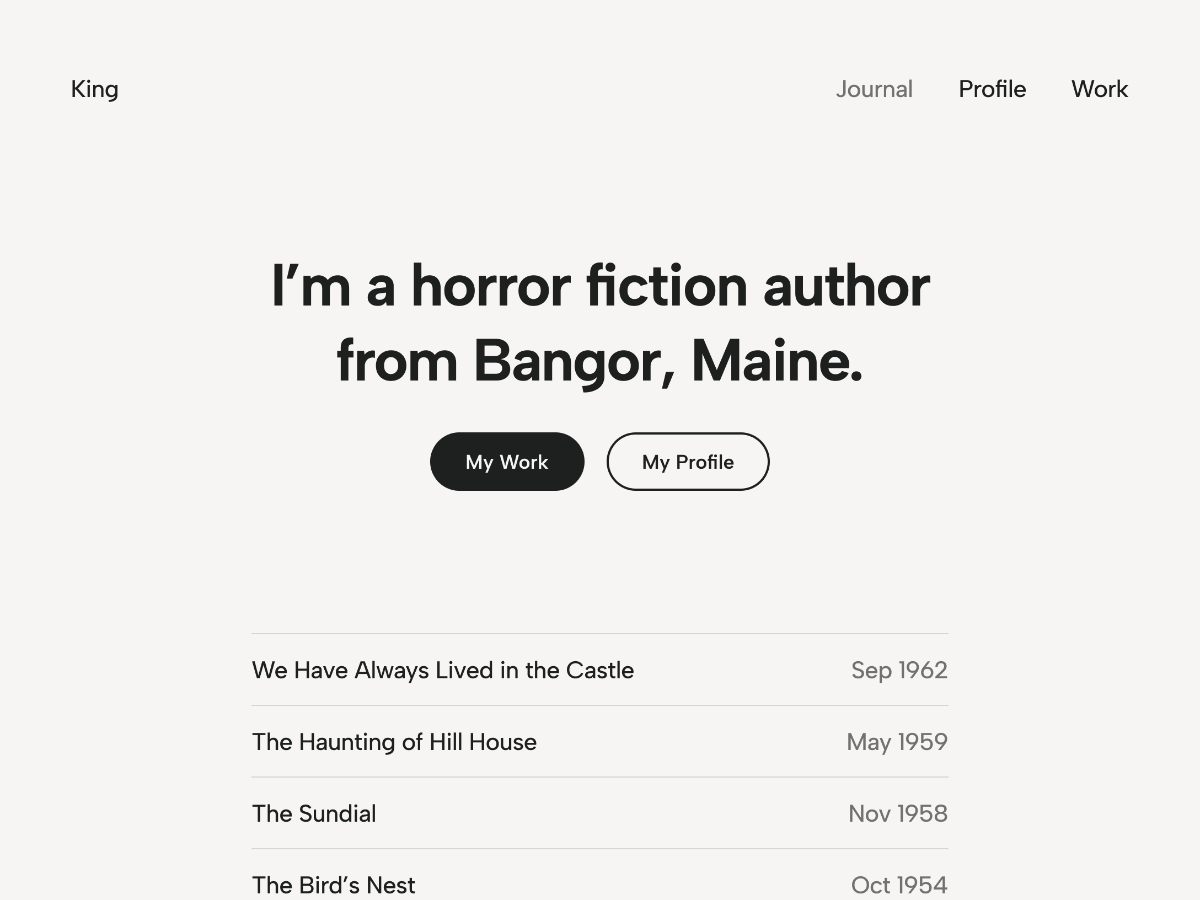
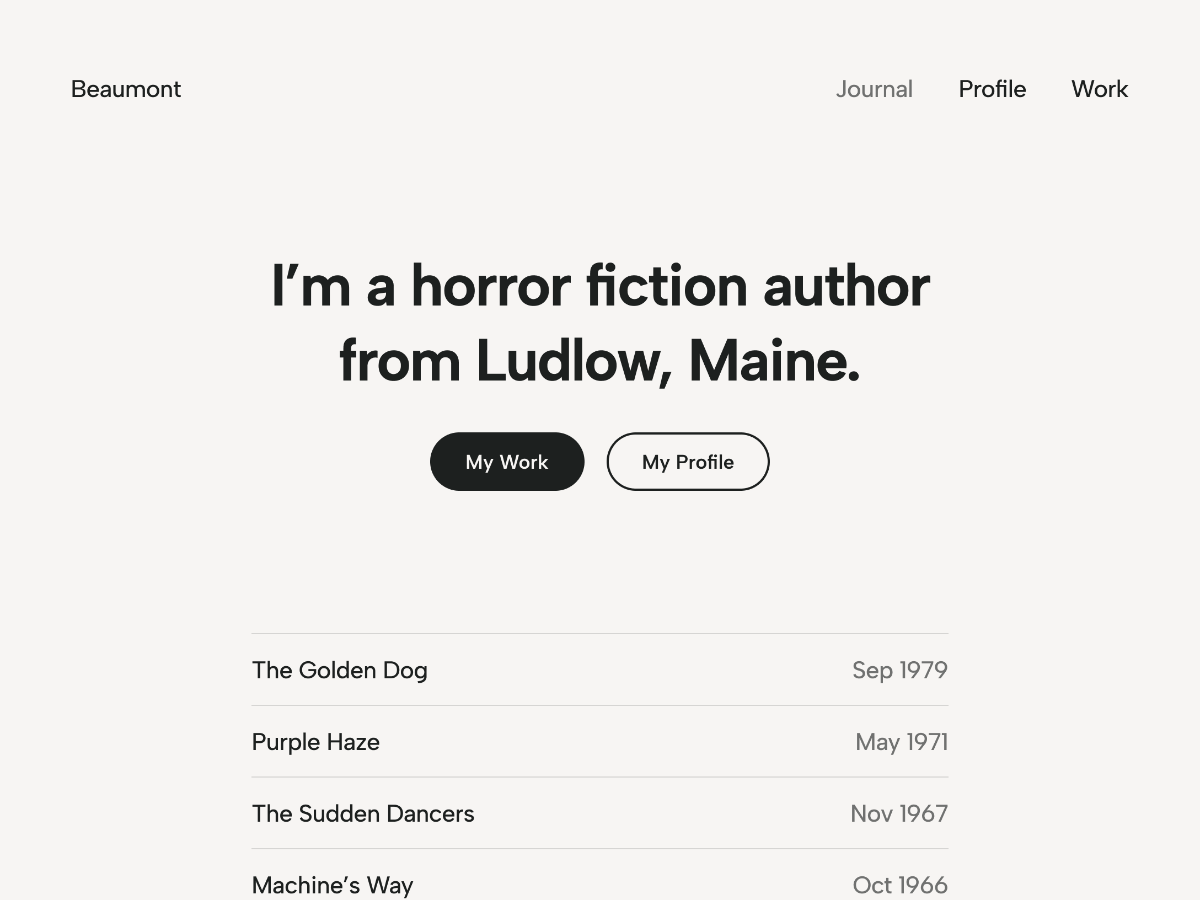
Renamed to Beaumont

diff --git a/style.css b/style.css
@@ -1,9 +1,9 @@
 /* ---------------------------------------------------------------------------------------------
 
-	Theme Name: King
-    Text Domain: king
+	Theme Name: Beaumont
+    Text Domain: beaumont
 	Version: 0.1
-	Description: King is a simple block theme for your words. It includes a handful of block patterns to help you create beautiful layouts, and 10 different theme styles to choose from.
+	Description: Beaumont is a simple block theme for your words. It includes a handful of block patterns to help you create beautiful layouts, and 10 different theme styles to choose from.
 	Tags: blog, one-column, custom-background, custom-colors, custom-logo, custom-menu, editor-style, featured-images, sticky-post, threaded-comments, translation-ready, block-styles, wide-blocks, full-site-editing
 	Author: Anders Norén
 	Author URI: https://andersnoren.se
@@ -445,59 +445,59 @@ ol.wp-block-comment-template {
 
 /* STYLE: VERTICAL SEPARATORS */
 
-.wp-block-query-pagination.is-style-king-vertical-separators {
+.wp-block-query-pagination.is-style-beaumont-vertical-separators {
 	border-bottom: 1px solid var( --wp--preset--color--secondary );
 	border-top: 1px solid var( --wp--preset--color--secondary );
 	gap: 0;
 }
 
-.wp-block-query-pagination.is-style-king-vertical-separators a,
+.wp-block-query-pagination.is-style-beaumont-vertical-separators a,
 .wp-block-query-pagination-numbers {
 	position: relative;
 }
 
-.wp-block-query-pagination.is-style-king-vertical-separators .post-navigation-link-previous a:before,
-.wp-block-query-pagination.is-style-king-vertical-separators .post-navigation-link-next a:before {
+.wp-block-query-pagination.is-style-beaumont-vertical-separators .post-navigation-link-previous a:before,
+.wp-block-query-pagination.is-style-beaumont-vertical-separators .post-navigation-link-next a:before {
 	position: absolute;
 }
 
-.wp-block-query-pagination.is-style-king-vertical-separators .post-navigation-link-previous a:before { content: "←"; }
-.wp-block-query-pagination.is-style-king-vertical-separators .post-navigation-link-next a:before { content: "→"; }
+.wp-block-query-pagination.is-style-beaumont-vertical-separators .post-navigation-link-previous a:before { content: "←"; }
+.wp-block-query-pagination.is-style-beaumont-vertical-separators .post-navigation-link-next a:before { content: "→"; }
 
 /* Horizontal Orientation */
 
-.wp-block-query-pagination.is-style-king-vertical-separators:not(.is-vertical) {
+.wp-block-query-pagination.is-style-beaumont-vertical-separators:not(.is-vertical) {
 	gap: 16px;
 	padding: 16px 0;
 }
 
-.wp-block-query-pagination.is-style-king-vertical-separators:not(.is-vertical) .post-navigation-link-previous a { padding-left: 1.6em; }
-.wp-block-query-pagination.is-style-king-vertical-separators:not(.is-vertical) .post-navigation-link-previous a:before { left: 0; }
+.wp-block-query-pagination.is-style-beaumont-vertical-separators:not(.is-vertical) .post-navigation-link-previous a { padding-left: 1.6em; }
+.wp-block-query-pagination.is-style-beaumont-vertical-separators:not(.is-vertical) .post-navigation-link-previous a:before { left: 0; }
 
-.wp-block-query-pagination.is-style-king-vertical-separators:not(.is-vertical) .post-navigation-link-next a { padding-right: 1.6em; }
-.wp-block-query-pagination.is-style-king-vertical-separators:not(.is-vertical) .post-navigation-link-next a:before { right: 0; }
+.wp-block-query-pagination.is-style-beaumont-vertical-separators:not(.is-vertical) .post-navigation-link-next a { padding-right: 1.6em; }
+.wp-block-query-pagination.is-style-beaumont-vertical-separators:not(.is-vertical) .post-navigation-link-next a:before { right: 0; }
 
 /* Vertical Orientation */
 
-.wp-block-query-pagination.is-style-king-vertical-separators.is-vertical > *:not(:empty) {
+.wp-block-query-pagination.is-style-beaumont-vertical-separators.is-vertical > *:not(:empty) {
 	margin: 0;
 	padding: 16px 0;
 	width: 100%;
 }
 
-.wp-block-query-pagination.is-style-king-vertical-separators.is-vertical > * + *:not(:empty) {
+.wp-block-query-pagination.is-style-beaumont-vertical-separators.is-vertical > * + *:not(:empty) {
 	border-top: 1px solid var( --wp--preset--color--secondary );
 }
 
-.wp-block-query-pagination.is-style-king-vertical-separators.is-vertical .post-navigation-link-previous a,
-.wp-block-query-pagination.is-style-king-vertical-separators.is-vertical .post-navigation-link-previous + .wp-block-query-pagination-numbers,
-.wp-block-query-pagination.is-style-king-vertical-separators.is-vertical .post-navigation-link-next a {
+.wp-block-query-pagination.is-style-beaumont-vertical-separators.is-vertical .post-navigation-link-previous a,
+.wp-block-query-pagination.is-style-beaumont-vertical-separators.is-vertical .post-navigation-link-previous + .wp-block-query-pagination-numbers,
+.wp-block-query-pagination.is-style-beaumont-vertical-separators.is-vertical .post-navigation-link-next a {
 	box-sizing: border-box;
 	padding-left: 1.6em;
 }
 
-.wp-block-query-pagination.is-style-king-vertical-separators.is-vertical .post-navigation-link-next a:before,
-.wp-block-query-pagination.is-style-king-vertical-separators.is-vertical .post-navigation-link-previous a:before { 
+.wp-block-query-pagination.is-style-beaumont-vertical-separators.is-vertical .post-navigation-link-next a:before,
+.wp-block-query-pagination.is-style-beaumont-vertical-separators.is-vertical .post-navigation-link-previous a:before { 
 	left: 0;
 }
 
@@ -512,7 +512,7 @@ blockquote p:last-child { margin-bottom: 0; }
 
 /* Block: Separator -------------------------- */
 
-:root hr[class*="is-style-king-diamond"] {
+:root hr[class*="is-style-beaumont-diamond"] {
 	background-color: transparent !important;
 	background: linear-gradient(90deg, currentColor 0%, currentColor calc( 50% - 20px ), transparent calc( 50% - 20px ), transparent calc( 50% + 20px ), currentColor calc( 50% + 20px ), currentColor 100%);
 	border: none;
@@ -520,10 +520,10 @@ blockquote p:last-child { margin-bottom: 0; }
 	position: relative;
 }
 
-:root hr.is-style-king-diamond { width: 201px !important; }
-:root hr.is-style-king-diamond-wide { width: 100% !important; }
+:root hr.is-style-beaumont-diamond { width: 201px !important; }
+:root hr.is-style-beaumont-diamond-wide { width: 100% !important; }
 
-:root hr[class*="is-style-king-diamond"]:before {
+:root hr[class*="is-style-beaumont-diamond"]:before {
 	background-color: currentColor;
 	content: "";
 	display: block;

diff --git a/templates/single.html b/templates/single.html
@@ -51,12 +51,12 @@
 	</div>
 	<!-- /wp:group -->
 
-	<!-- wp:template-part {"slug":"comments","className":"comments","theme":"king"} /-->
+	<!-- wp:template-part {"slug":"comments","className":"comments","theme":"beaumont"} /-->
 
 	<!-- wp:group {"style":{"spacing":{"margin":{"top":"0px","bottom":"0px"},"padding":{"top":"14vh"},"blockGap":"2em"}},"layout":{"inherit":true}} -->
 	<div class="wp-block-group" style="margin-top:0px;margin-bottom:0px;padding-top:14vh">
 
-		<!-- wp:query-pagination {"align":"wide","className":"alignwide is-style-king-vertical-separators","layout":{"type":"flex","justifyContent":"space-between","orientation":"vertical"}} -->
+		<!-- wp:query-pagination {"align":"wide","className":"alignwide is-style-beaumont-vertical-separators","layout":{"type":"flex","justifyContent":"space-between","orientation":"vertical"}} -->
 		<!-- wp:post-navigation-link {"type":"previous","showTitle":true,"style":{"typography":{"fontStyle":"normal"}}} /-->
 
 		<!-- wp:post-navigation-link {"showTitle":true,"style":{"typography":{"fontStyle":"normal"}}} /-->
@@ -68,4 +68,4 @@
 </main>
 <!-- /wp:group -->
 
-<!-- wp:template-part {"slug":"footer","theme":"king","tagName":"footer","className":"site-footer"} /-->
+<!-- wp:template-part {"slug":"footer","theme":"beaumont","tagName":"footer","className":"site-footer"} /-->

diff --git a/templates/front-page.html b/templates/front-page.html
@@ -5,7 +5,7 @@
 	<!-- wp:group {"align":"wide","style":{"spacing":{"blockGap":"32px","margin":{"top":"0px","bottom":"0px"}}},"layout":{"contentSize":"690px"}} -->
 	<div class="wp-block-group alignwide" style="margin-top:0px;margin-bottom:0px">
 		<!-- wp:heading {"textAlign":"center","level":1} -->
-		<h1 class="has-text-align-center">This is King – a simple block theme for your words.</h1>
+		<h1 class="has-text-align-center">This is Beaumont – a simple block theme for your words.</h1>
 		<!-- /wp:heading -->
 
 		<!-- wp:buttons {"layout":{"type":"flex","justifyContent":"center"},"style":{"spacing":{"blockGap":".88em"}}} -->
@@ -61,4 +61,4 @@
 </main>
 <!-- /wp:group -->
 
-<!-- wp:template-part {"slug":"footer","theme":"king","tagName":"footer","className":"site-footer"} /-->
+<!-- wp:template-part {"slug":"footer","theme":"beaumont","tagName":"footer","className":"site-footer"} /-->

diff --git a/parts/loop-excerpt.html b/parts/loop-excerpt.html
@@ -47,9 +47,9 @@
 
 	<!-- wp:group {"style":{"spacing":{"margin":{"top":"0px","bottom":"0px"},"padding":{"top":"14vh","bottom":"14vh"}}}} -->
 	<div class="wp-block-group" style="margin-top:0px;margin-bottom:0px;padding-top:14vh;padding-bottom:14vh">
-		<!-- wp:separator {"backgroundColor":"secondary","className":"is-style-king-diamond"} -->
+		<!-- wp:separator {"backgroundColor":"secondary","className":"is-style-beaumont-diamond"} -->
 		<hr
-			class="wp-block-separator has-text-color has-secondary-color has-alpha-channel-opacity has-secondary-background-color has-background is-style-king-diamond" />
+			class="wp-block-separator has-text-color has-secondary-color has-alpha-channel-opacity has-secondary-background-color has-background is-style-beaumont-diamond" />
 		<!-- /wp:separator -->
 	</div>
 	<!-- /wp:group -->

diff --git a/templates/404.html b/templates/404.html
@@ -10,7 +10,7 @@
 	<!-- wp:group {"style":{"spacing":{"blockGap":"32px","margin":{"top":"21px","bottom":"0px"}}},"layout":{"contentSize":"510px"}} -->
 	<div class="wp-block-group" style="margin-top:21px;margin-bottom:0px">
 		<!-- wp:paragraph {"align":"center"} -->
-		<p class="has-text-align-center">The page you were looking is nowhere to be found. Maybe give the search form
+		<p class="has-text-align-center">The page you were loobeaumont is nowhere to be found. Maybe give the search form
 			below a try?</p>
 		<!-- /wp:paragraph -->
 
@@ -20,4 +20,4 @@
 </main>
 <!-- /wp:group -->
 
-<!-- wp:template-part {"slug":"footer","theme":"king","tagName":"footer","className":"site-footer"} /-->
+<!-- wp:template-part {"slug":"footer","theme":"beaumont","tagName":"footer","className":"site-footer"} /-->

diff --git a/templates/index.html b/templates/index.html
@@ -1,5 +1,5 @@
 <!-- wp:template-part {"slug":"header","tagName":"header","className":"site-header","layout":{"inherit":true}} /-->
 
-<!-- wp:template-part {"slug":"loop","theme":"king"} /-->
+<!-- wp:template-part {"slug":"loop","theme":"beaumont"} /-->
 
-<!-- wp:template-part {"slug":"footer","theme":"king","tagName":"footer","className":"site-footer"} /-->
+<!-- wp:template-part {"slug":"footer","theme":"beaumont","tagName":"footer","className":"site-footer"} /-->

diff --git a/templates/archive.html b/templates/archive.html
@@ -11,9 +11,9 @@
 	</div>
 	<!-- /wp:group -->
 
-	<!-- wp:template-part {"slug":"loop","theme":"king"} /-->
+	<!-- wp:template-part {"slug":"loop","theme":"beaumont"} /-->
 	
 </main>
 <!-- /wp:group -->
 
-<!-- wp:template-part {"slug":"footer","theme":"king","tagName":"footer","className":"site-footer"} /-->
+<!-- wp:template-part {"slug":"footer","theme":"beaumont","tagName":"footer","className":"site-footer"} /-->

diff --git a/templates/search.html b/templates/search.html
@@ -9,9 +9,9 @@
 	</div>
 	<!-- /wp:group -->
 
-	<!-- wp:template-part {"slug":"loop","theme":"king"} /-->
+	<!-- wp:template-part {"slug":"loop","theme":"beaumont"} /-->
 
 </main>
 <!-- /wp:group -->
 
-<!-- wp:template-part {"slug":"footer","theme":"king","tagName":"footer","className":"site-footer"} /-->
+<!-- wp:template-part {"slug":"footer","theme":"beaumont","tagName":"footer","className":"site-footer"} /-->

diff --git a/templates/page.html b/templates/page.html
@@ -28,4 +28,4 @@
 </main>
 <!-- /wp:group -->
 
-<!-- wp:template-part {"slug":"footer","theme":"king","tagName":"footer","className":"site-footer"} /-->
+<!-- wp:template-part {"slug":"footer","theme":"beaumont","tagName":"footer","className":"site-footer"} /-->

diff --git a/templates/template-no-title.html b/templates/template-no-title.html
@@ -12,4 +12,4 @@
 </main>
 <!-- /wp:group -->
 
-<!-- wp:template-part {"slug":"footer","theme":"king","tagName":"footer","className":"site-footer"} /-->
+<!-- wp:template-part {"slug":"footer","theme":"beaumont","tagName":"footer","className":"site-footer"} /-->

diff --git a/functions.php b/functions.php
@@ -4,26 +4,26 @@
 	THEME SUPPORTS
 --------------------------------------------------------------------------------------------------- */
 
-function king_setup() {
+function beaumont_setup() {
 
 	add_theme_support( 'wp-block-styles' );
 
 	add_editor_style( 'style.css' );
 
 }
-add_action( 'after_setup_theme', 'king_setup' );
+add_action( 'after_setup_theme', 'beaumont_setup' );
 
 
 /*	-----------------------------------------------------------------------------------------------
 	ENQUEUE STYLESHEETS
 --------------------------------------------------------------------------------------------------- */
 
-function king_styles() {
+function beaumont_styles() {
 
-	wp_enqueue_style( 'king-styles', get_theme_file_uri( '/style.css' ), array(), wp_get_theme( 'king' )->get( 'Version' ) );
+	wp_enqueue_style( 'beaumont-styles', get_theme_file_uri( '/style.css' ), array(), wp_get_theme( 'beaumont' )->get( 'Version' ) );
 
 }
-add_action( 'wp_enqueue_scripts', 'king_styles' );
+add_action( 'wp_enqueue_scripts', 'beaumont_styles' );
 
 
 /*	-----------------------------------------------------------------------------------------------
@@ -31,27 +31,27 @@ add_action( 'wp_enqueue_scripts', 'king_styles' );
 	Register theme specific block pattern categories. The patterns themselves are stored in /patterns/.
 --------------------------------------------------------------------------------------------------- */
 
-function king_register_block_patterns() {
+function beaumont_register_block_patterns() {
 
-	// The block pattern categories included in King.
-	$king_block_pattern_categories = apply_filters( 'king_block_pattern_categories', array(
-		'king'  => array(
-			'label'			=> esc_html__( 'King Patterns', 'king' ),
+	// The block pattern categories included in Beaumont.
+	$beaumont_block_pattern_categories = apply_filters( 'beaumont_block_pattern_categories', array(
+		'beaumont'  => array(
+			'label'			=> esc_html__( 'Beaumont Patterns', 'beaumont' ),
 		)
 	) );
 
 	// Sort the block pattern categories alphabetically based on the label value, to ensure alphabetized order when the strings are localized.
-	uasort( $king_block_pattern_categories, function( $a, $b ) { 
+	uasort( $beaumont_block_pattern_categories, function( $a, $b ) { 
 		return strcmp( $a["label"], $b["label"] ); }
 	);
 
 	// Register block pattern categories.
-	foreach ( $king_block_pattern_categories as $slug => $settings ) {
+	foreach ( $beaumont_block_pattern_categories as $slug => $settings ) {
 		register_block_pattern_category( $slug, $settings );
 	}
 
 }
-add_action( 'init', 'king_register_block_patterns' );
+add_action( 'init', 'beaumont_register_block_patterns' );
 
 
 /*	-----------------------------------------------------------------------------------------------
@@ -59,25 +59,25 @@ add_action( 'init', 'king_register_block_patterns' );
 	Register theme specific block styles.
 --------------------------------------------------------------------------------------------------- */
 
-function king_register_block_styles() {
+function beaumont_register_block_styles() {
 
 	// Pagination: Vertical Separators
 	register_block_style( 'core/query-pagination', array(
-		'name'  	=> 'king-vertical-separators',
-		'label' 	=> esc_html__( 'Vertical Separators', 'king' ),
+		'name'  	=> 'beaumont-vertical-separators',
+		'label' 	=> esc_html__( 'Vertical Separators', 'beaumont' ),
 	) );
 
 	// Separator: Diamond
 	register_block_style( 'core/separator', array(
-		'name'  	=> 'king-diamond',
-		'label' 	=> esc_html__( 'Diamond', 'king' ),
+		'name'  	=> 'beaumont-diamond',
+		'label' 	=> esc_html__( 'Diamond', 'beaumont' ),
 	) );
 
 	// Separator: Diamond Wide
 	register_block_style( 'core/separator', array(
-		'name'  	=> 'king-diamond-wide',
-		'label' 	=> esc_html__( 'Diamond Wide', 'king' ),
+		'name'  	=> 'beaumont-diamond-wide',
+		'label' 	=> esc_html__( 'Diamond Wide', 'beaumont' ),
 	) );
 	
 }
-add_action( 'init', 'king_register_block_styles' );
+add_action( 'init', 'beaumont_register_block_styles' );

diff --git a/patterns/resume.php b/patterns/resume.php
@@ -1,13 +1,13 @@
 <?php
 /**
  * Title: Résumé.
- * Slug: king/resume
- * Categories: king
+ * Slug: beaumont/resume
+ * Categories: beaumont
  */
 ?>
 
-<!-- wp:separator {"align":"wide","className":"is-style-king-diamond-wide"} -->
-<hr class="wp-block-separator alignwide has-alpha-channel-opacity is-style-king-diamond-wide" />
+<!-- wp:separator {"align":"wide","className":"is-style-beaumont-diamond-wide"} -->
+<hr class="wp-block-separator alignwide has-alpha-channel-opacity is-style-beaumont-diamond-wide" />
 <!-- /wp:separator -->
 
 <!-- wp:columns {"align":"wide"} -->
@@ -33,8 +33,8 @@
 </div>
 <!-- /wp:columns -->
 
-<!-- wp:separator {"align":"wide","className":"is-style-king-diamond-wide"} -->
-<hr class="wp-block-separator alignwide has-alpha-channel-opacity is-style-king-diamond-wide" />
+<!-- wp:separator {"align":"wide","className":"is-style-beaumont-diamond-wide"} -->
+<hr class="wp-block-separator alignwide has-alpha-channel-opacity is-style-beaumont-diamond-wide" />
 <!-- /wp:separator -->
 
 <!-- wp:columns {"align":"wide"} -->
@@ -98,8 +98,8 @@
 </div>
 <!-- /wp:columns -->
 
-<!-- wp:separator {"align":"wide","className":"is-style-king-diamond-wide"} -->
-<hr class="wp-block-separator alignwide has-alpha-channel-opacity is-style-king-diamond-wide" />
+<!-- wp:separator {"align":"wide","className":"is-style-beaumont-diamond-wide"} -->
+<hr class="wp-block-separator alignwide has-alpha-channel-opacity is-style-beaumont-diamond-wide" />
 <!-- /wp:separator -->
 
 <!-- wp:columns {"align":"wide"} -->
@@ -145,8 +145,8 @@
 </div>
 <!-- /wp:columns -->
 
-<!-- wp:separator {"align":"wide","className":"is-style-king-diamond-wide"} -->
-<hr class="wp-block-separator alignwide has-alpha-channel-opacity is-style-king-diamond-wide" />
+<!-- wp:separator {"align":"wide","className":"is-style-beaumont-diamond-wide"} -->
+<hr class="wp-block-separator alignwide has-alpha-channel-opacity is-style-beaumont-diamond-wide" />
 <!-- /wp:separator -->
 
 <!-- wp:columns {"align":"wide"} -->
